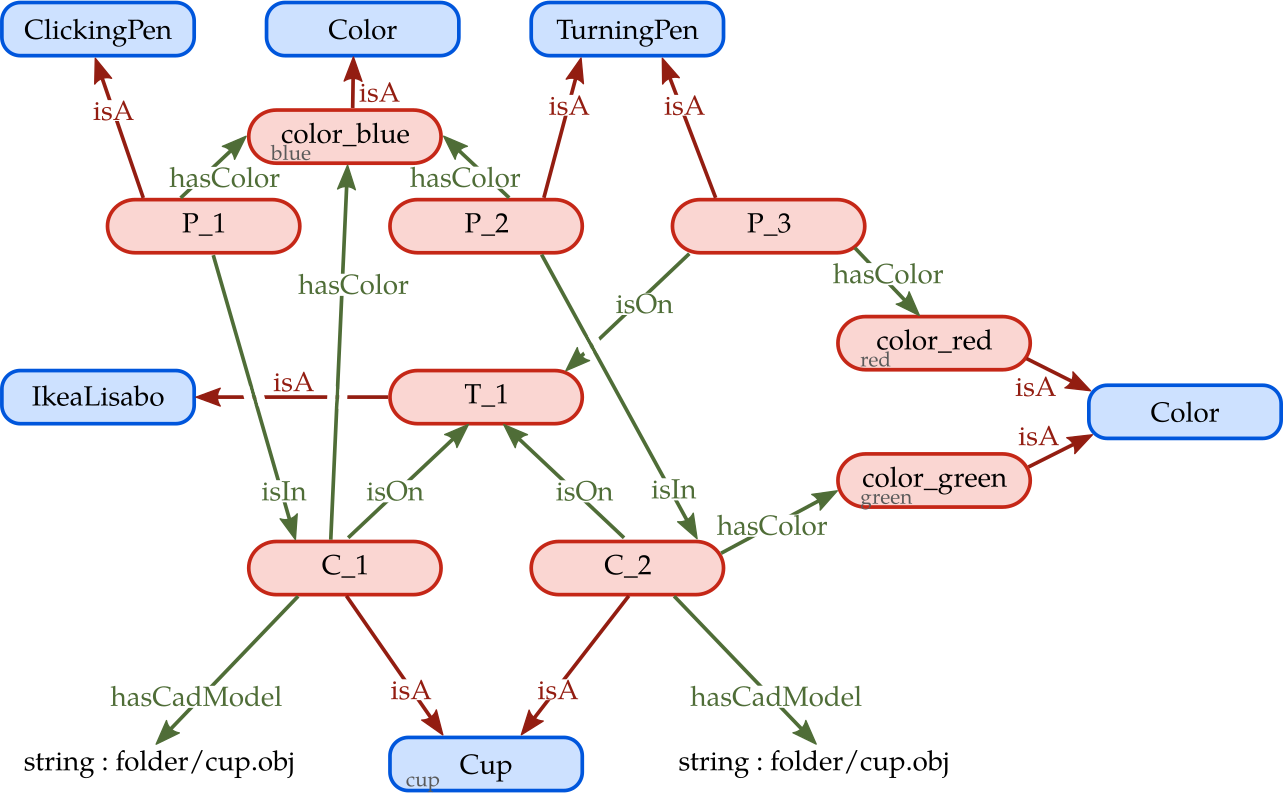
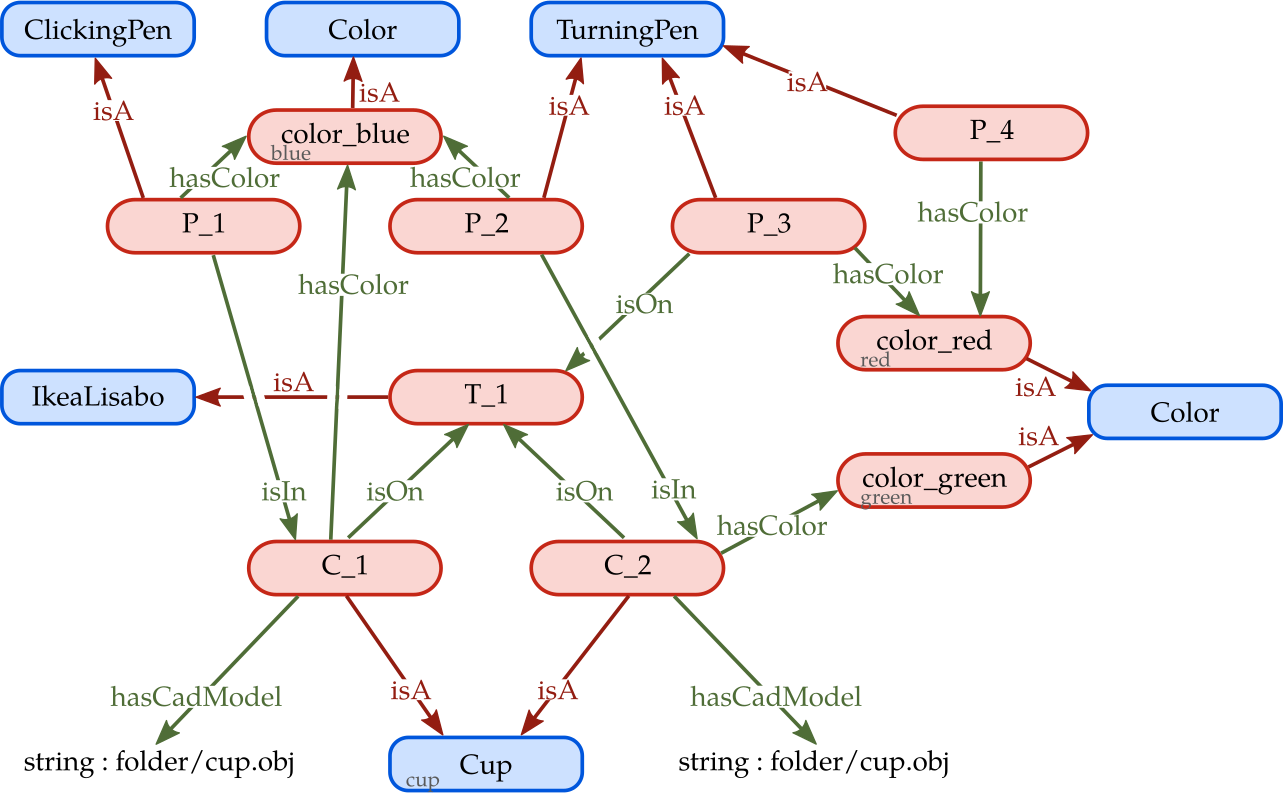
Chapter 4 KB for the REG

Changed region(s): [[0.6547, 0.1211, 0.873, 0.2119], [0.7171, 0.2421, 0.8106, 0.3934], [0.5612, 0.0605, 0.6547, 0.1211]]

diff --git a/Chapter4.tex b/Chapter4.tex
@@ -82,7 +82,12 @@ The literature presented here before is focused on Referring Expression Generati
 
 \section{Define the REG problem}
 
+In this section, we present the ontology of example that we use all along with this chapter. We then discuss how the up-task in which a REG could be performed can restrict the search among the entire knowledge base. Finally, we formally define the expected form for a solution to a REG problem and the constraints it must respect.
+
+
 \subsection{The knowledge representation}
+
+As presented earlier in this thesis, ontology is a way to represente knowledge that is now largely used in many field becasue it allows a standardization of the representation easy extension of an extisting knowledge base, and the use of inference engine to enrich the the knowledge base. For these reasons, we choose to use a knowledge base in the form of an ontology as input of our algorithm for the REG problem. Moreover, we saw that number of recent REG algorithm have trend to use graph representations as it allows to refer to an entity through relations to other entities. Because an ontology can be see as a more complexe and mor expressive graph, this representation seems to be adequate to use for the REG problem. 
 
 \begin{figure}[h!]
 \centering
@@ -90,21 +95,39 @@ The literature presented here before is focused on Referring Expression Generati
 \caption{\label{fig:chap4_kb} A situation view from the hearer perspective, with the robot placed on the other side of the table. Three pens and two cups are on a table. The two blue pens are each in one cup. }
 \end{figure}
 
+In this chapter, we take as an example the situation represented in Figure~\ref{fig:chap4_kb}. The situation is assumed to be perceived by the robot and represented in its semantic knowledge base. This knowledge base as an ontology is of the form $\kbs^R = \langle \Abox^R, \Tbox^R, \Rbox^R \rangle$. $\Abox$, $\Tbox$ like presented in Section~\ref{sec:kb_formalism}. The estimated knowledge base of the human partner $\kbs^H$ is here assumed to be the same as that of the robot in the way that $\kbs^R \equiv \kbs^H \equiv \kbs$.
+
+The Tbox used to describe the situation of example is represented in Figure~\ref{fig:chap4_kb_Tbox}. The class IkeaLisabo represent a precise model of tables and does not have any label. The class Pen is specified through two classes the ClickingPen and the TurningPen. These two classes aim at representing the pens you need to click on top to get the tip of the pen out and the pens you need to turn to get the tip of the pen out. These classes do not have any label to directly speak about them. They are such used for the robot to know how to use them. For sure a more precise ontology could be drawn but we try to keep it simple for the purpose of this chapter.
+
 \begin{figure}[h!]
 \centering
 \includegraphics[scale=0.4]{figures/chapter4/pens_Tbox.png}
-\caption{\label{fig:chap4_kb_Tbox} TODO }
+\caption{\label{fig:chap4_kb_Tbox} Representation of the Tbox (classes hierarchy) used to describe the situation of the Figure~\ref{fig:chap4_kb}. }
 \end{figure}
+
+The Abox used to describe the situation is represented in Figure~\ref{fig:chap4_kb_Abox}. The two cups C\_1 and C\_2 are on the table T\_1. The two pens P\_1 and P\_2 are respectivly in the cups C\_1 and C\_2 while P\_3 is directly on the table. The pen P\_4 is another pen, not on the table. Other objects could be represented as the robot and the human could know other object being in the room. the pen P\_1 is the only pen for which the agent has to click to get the tip of the pen out.
 
 \begin{figure}[h!]
 \centering
 \includegraphics[scale=0.38]{figures/chapter4/pens_Abox.png}
-\caption{\label{fig:chap4_kb_Abox} TODO }
+\caption{\label{fig:chap4_kb_Abox} Representation of the Abox (relation graph) used to describe the situation of the Figure~\ref{fig:chap4_kb}. }
 \end{figure}
 
+The Rbox is not represented but the properties composing it are the ones used in the Abox. In addition with define the properties \textit{hasIn} being the inverse of \textit{isIn} and \textit{isUnder} being the inverse of \textit{isOn} ($\{(isIn,\ hasIn), (isOn,\ isUnder)\} \subset \invset$). Moreover, the property \textit{isOn} inherits of the upper property \textit{isAbove} ($\{(isOn,\ isABove), (isUnder,\ isBelow)\} \subset \inclset$). While the first state a direct contact between two entities, the other does not. Finally, we declare the chain axiom: $isIn \bullet isOn \Rightarrow isABove$. This axiom allows to reason on the ontology and declare that if an first entity is in a second one and that this second is on a third one, the first entity is above the third. Taking our example, because P\_1 is in C\_1 that is on T\_1, the pen P\_1 is above the table T\_1.
 
 
 \subsection{Contextualization and restriction for situated REG}
+
+The human (named Tony) and the robot are involved in a shared task around a table. During the task, the robot needs a blue pen to write. However, It can not take one by itself as the blue pens are on cups. Moreover, with its huge gripper, it can not use the kind of pens where you have to click. Our robot thus precisely need the pen P\_2 of our example and has to ask it to its human partner\footnote{Some could tell that if it is not the first time that our robot and this human collaborate, the human could be aware of the robot capability. In this case, the robot would just have to ask for a blue pen and the task would be over. We thus consider that our robot never had interacted with this particular human. For sure it could explain its capability but the purpose is not there.}.
+
+The robot is thus aiming to unambiguously designate an entity $\goalindiv \in \indivset$ through its attributes and relations to other entities. However, as explained, the REG is meant to be used in the context of an upper task that has to be took into account. In our exampe, the collaborative task concerns object on the table so that the other entities in the room are clearly out of context. Asking for a pen, P\_4 will not lead to any ambiguous situation as it is not on the table around which the interaction is performed. To represent this restiction, we provide the problem a \textbf{context} $Ctx = (\relationset_{ctx}, \inheritset_{ctx})$. It is a set of relation and direct types that are implicit to the current communication with regard to the task. This context is used to find a reference to $\goalindiv$, but has not to be included in the generated RE. For our example the context could be $Ctx = (\{ (\goalindiv,\ isOn,\ T\_1), (\goalindiv,\ isVisibleBy,\ Tony) \},\ \emptyset)$.
+
+% Despite this, if the robot has to designate to the human the pen which is on the table, the assertion "take the pen" will not lead to any ambiguous situation because in the context of the task,  it is obvious that the robot is currently speaking about the pen which is on the table and which is visible by the human.
+
+% where $\goalindiv$ is the entity to be referenced and $\textit{Table1}$ the identifier of the table where the task is performed. With this context, we restrict the disambiguation to the entities present on the table $Table1$ and visible and reachable by Bob, the human partner.
+
+%Finally, in a more general case, some properties might be present in the knowledge base, but cannot be used in the discrimination process. For example, the \textit{hasMesh} property should not be used for a verbal communication with humans. Thus, the problem must be provided with a set of so-called \textbf{usable properties} $\usablepropset \subseteq \propset$. Because of properties inheritance $Incl$ all the properties inheriting from the ones in $\usablepropset$ are usable in the problem.
+%Thus, the REG problem is a tuple $\problem = \langle \goalindiv, \kb, Ctx, \usablepropset \rangle$.
 
 \subsection{Expected solution: structure and validity criteria}
 

diff --git a/Symbols.tex b/Symbols.tex
@@ -66,3 +66,10 @@
 \newcommand \tinterval{\mathcal{T}}
 \newcommand \tstart{\tau_s}
 \newcommand \tend{\tau_e}
+
+%%%%%%%%%%%%%%%%%%%%%%%%
+%	      REG          %
+%%%%%%%%%%%%%%%%%%%%%%%%
+
+\newcommand \goalindiv{\indiv_t}
+\newcommand \var{x}
